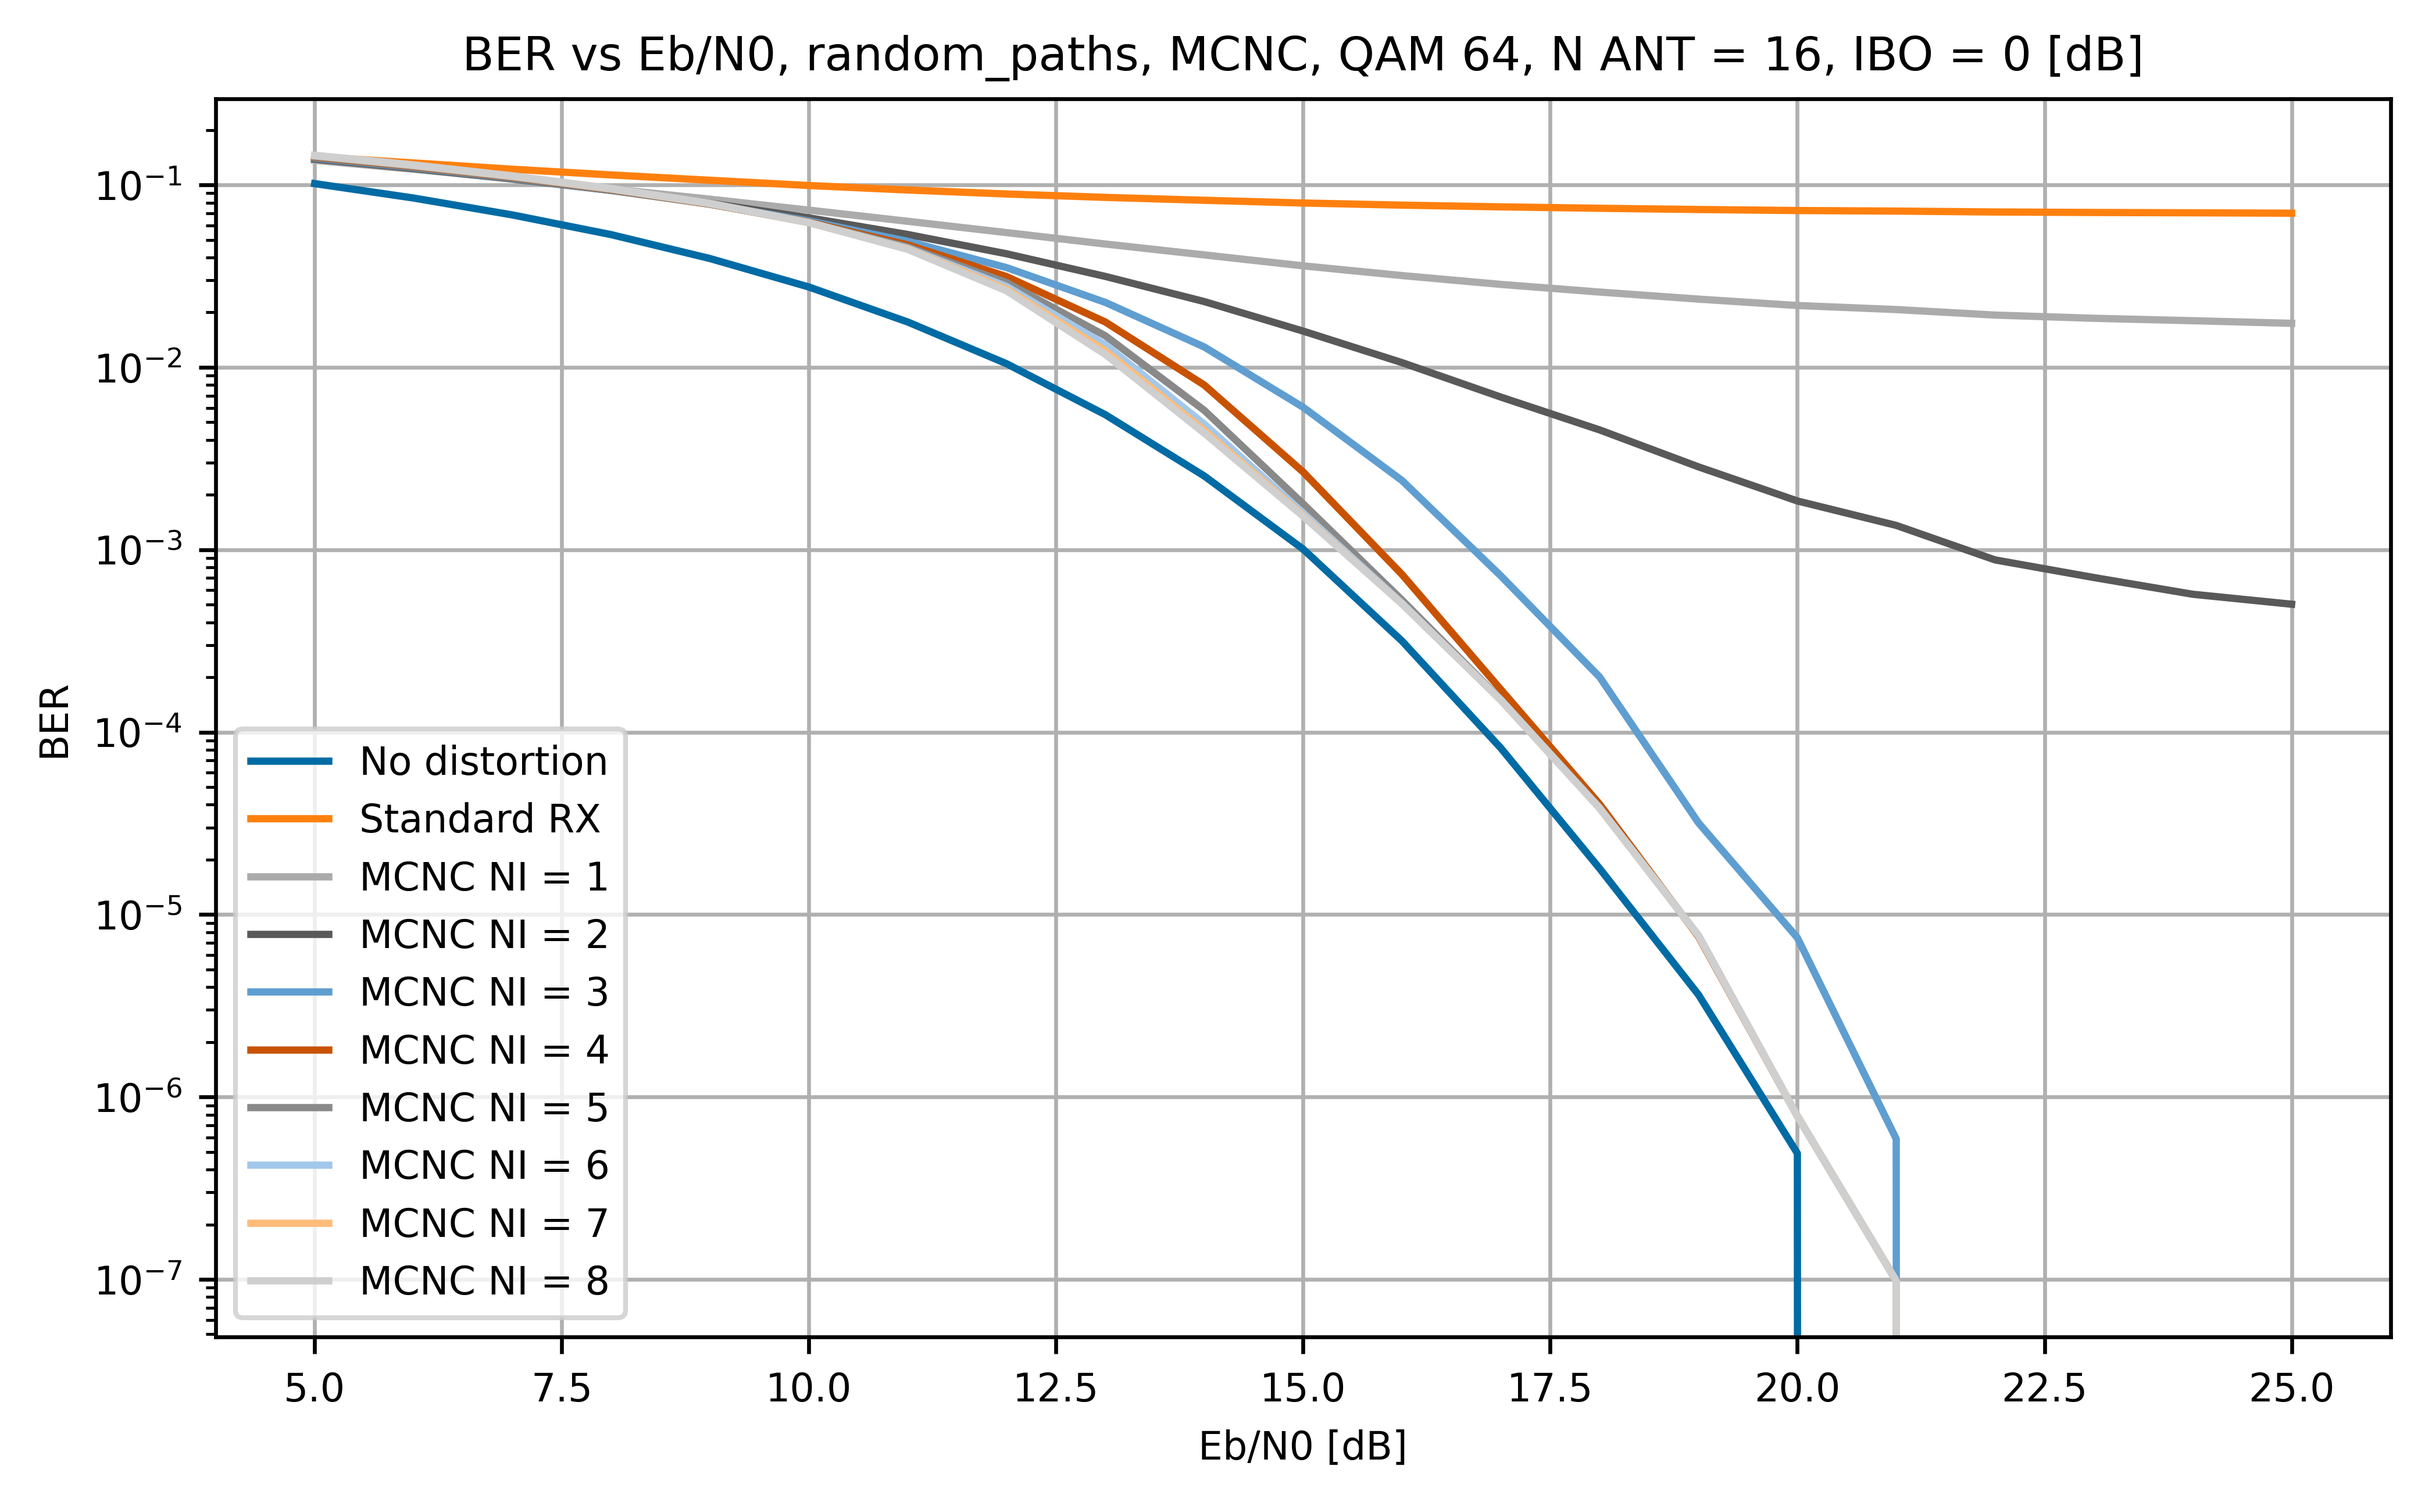
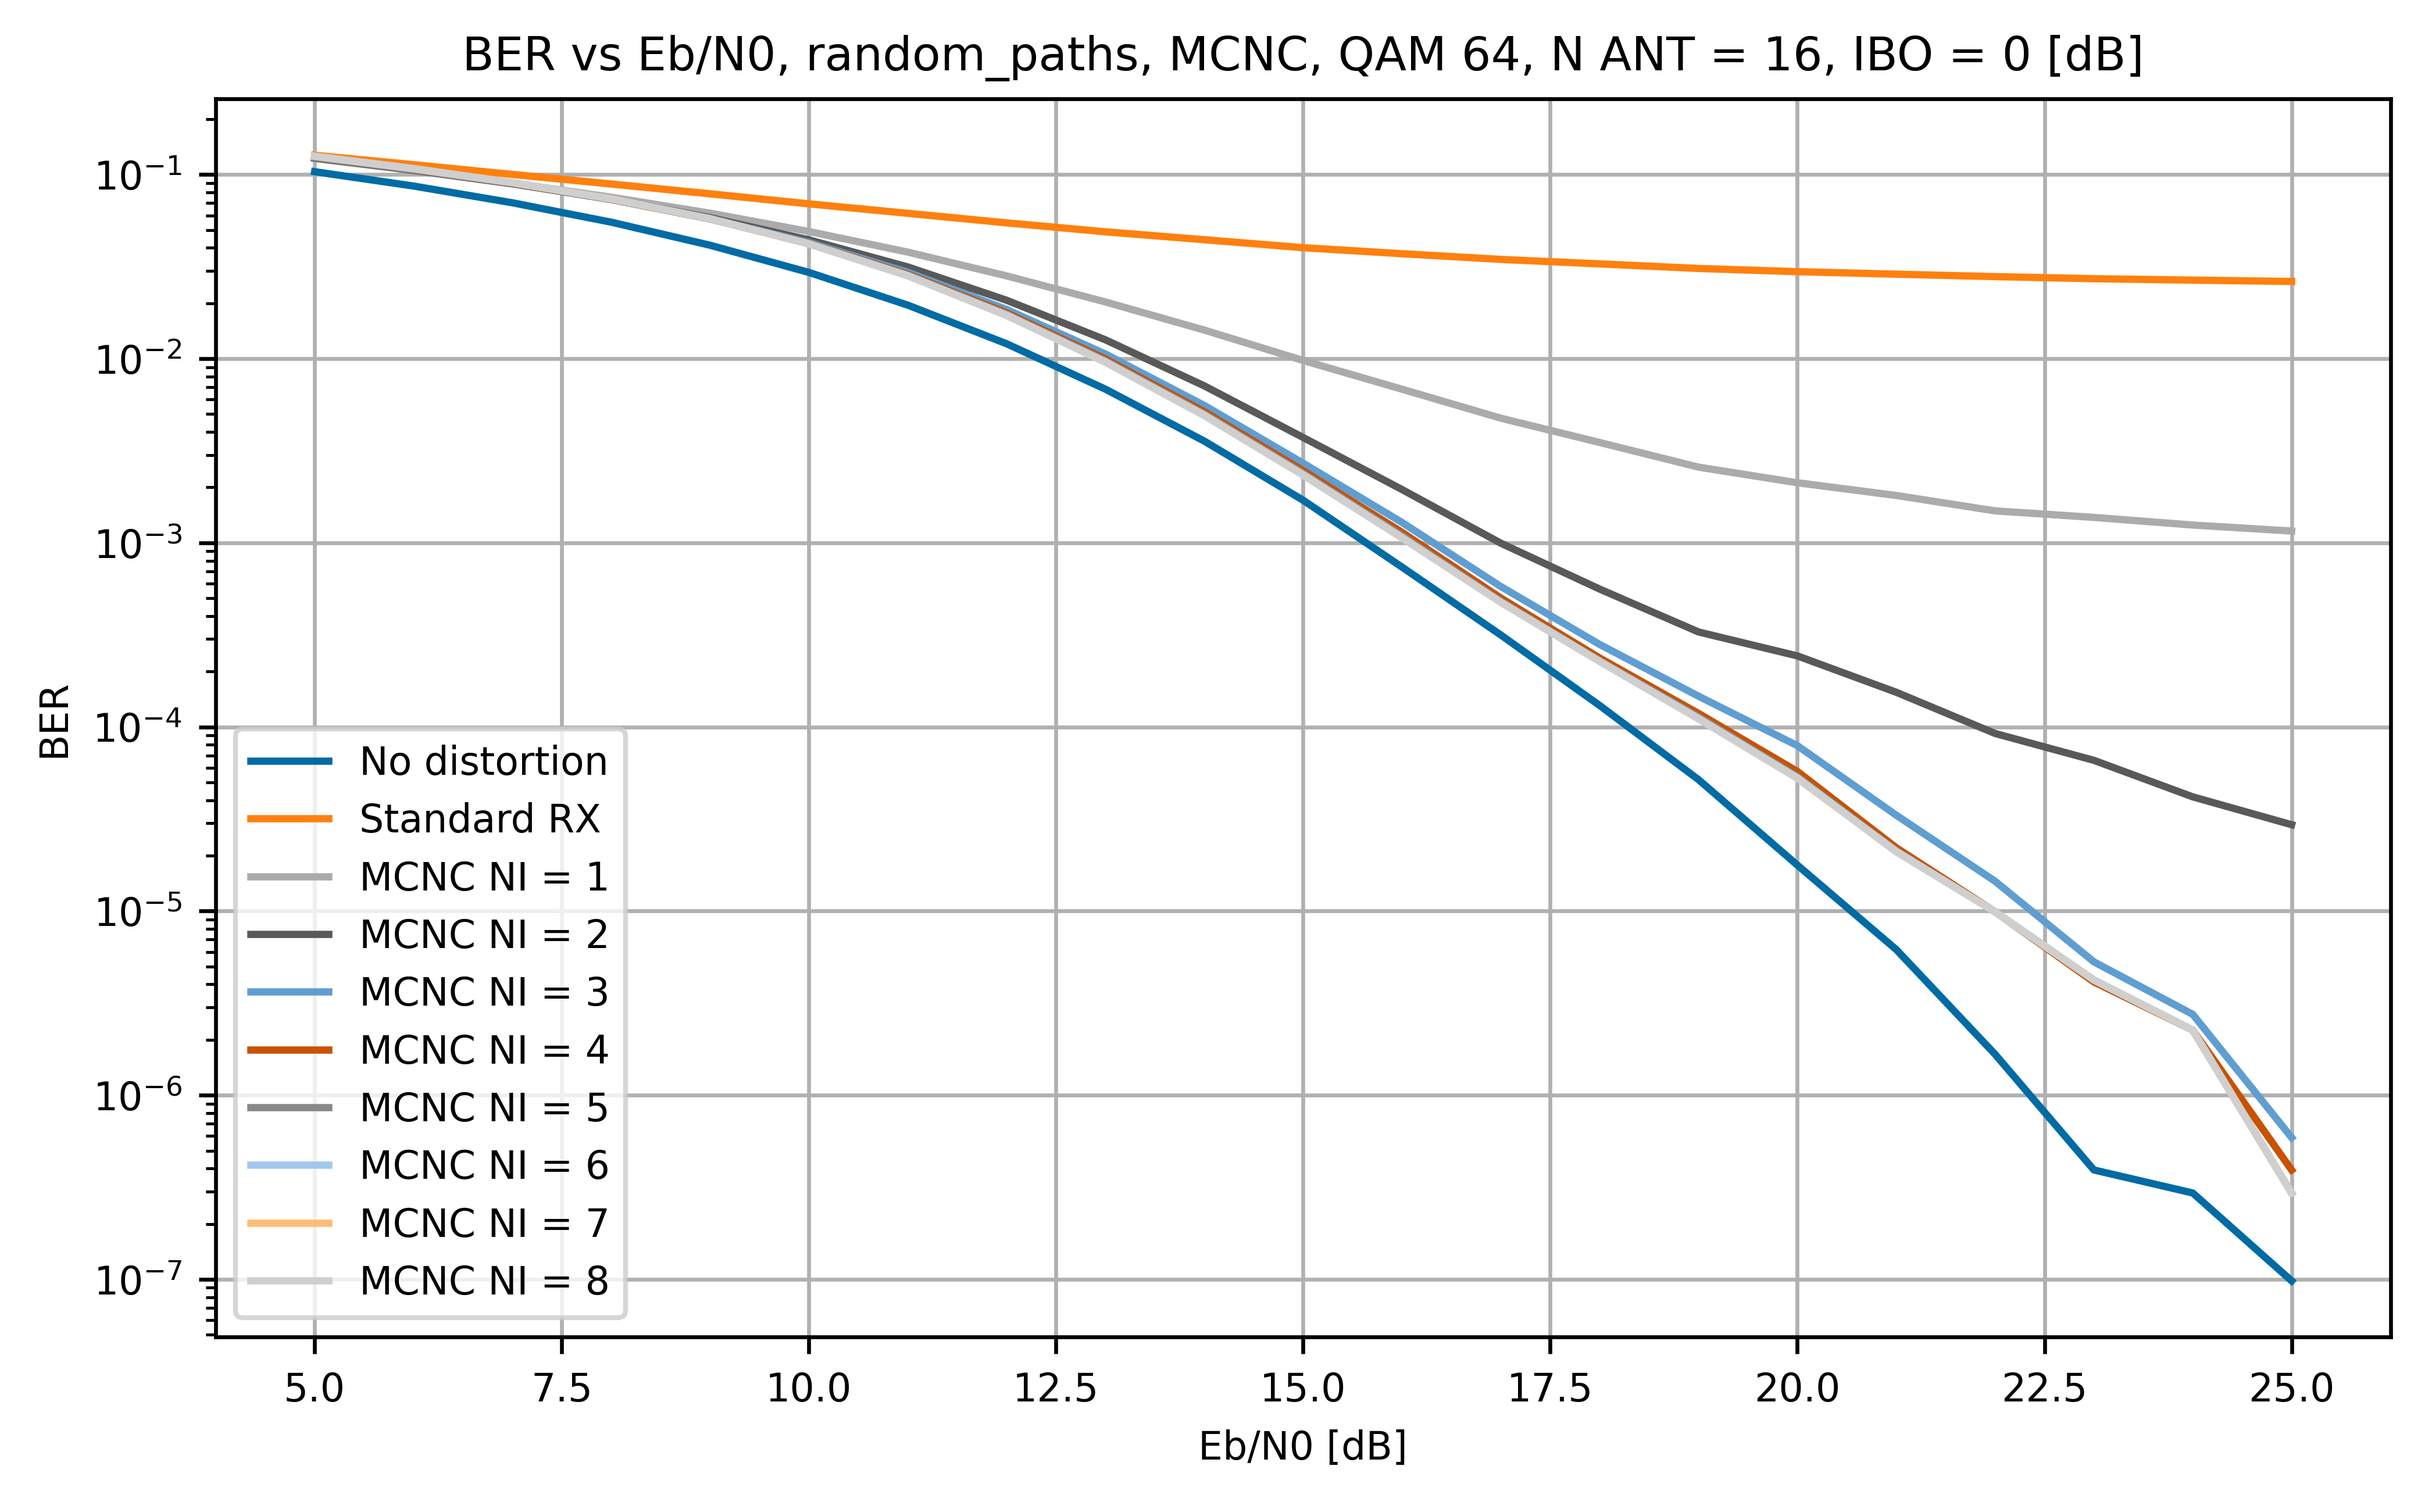
added 3 paths 1us spread results

diff --git a/main_mp_clipping_noise_cancellation/main_mp_miso_cnc_ber_vs_ebn0.py b/main_mp_clipping_noise_cancellation/main_mp_miso_cnc_ber_vs_ebn0.py
@@ -85,7 +85,7 @@ if __name__ == '__main__':
 
         my_random_paths_miso_channel = channel.MisoRandomPathsFd(tx_transceivers=my_array.array_elements,
                                                                  rx_transceiver=my_standard_rx, n_paths=3,
-                                                                 max_delay_spread=100e-9)
+                                                                 max_delay_spread=1e-6)
 
         chan_lst = [my_random_paths_miso_channel]
         my_noise = noise.Awgn(snr_db=10, seed=1234)

diff --git a/main_mp_clipping_noise_cancellation/main_mp_miso_mcnc_ber_vs_ebn0.py b/main_mp_clipping_noise_cancellation/main_mp_miso_mcnc_ber_vs_ebn0.py
@@ -87,7 +87,7 @@ if __name__ == '__main__':
 
         my_random_paths_miso_channel = channel.MisoRandomPathsFd(tx_transceivers=my_array.array_elements,
                                                                  rx_transceiver=my_standard_rx, n_paths=3,
-                                                                 max_delay_spread=100e-9)
+                                                                 max_delay_spread=1e-6)
 
         chan_lst = [my_random_paths_miso_channel]
         my_noise = noise.Awgn(snr_db=10, seed=1234)
